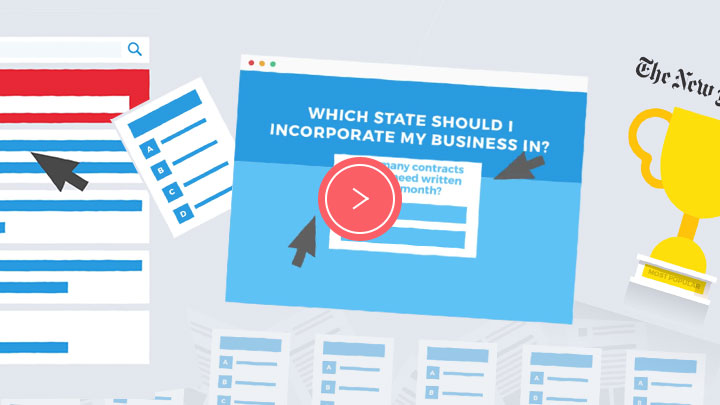
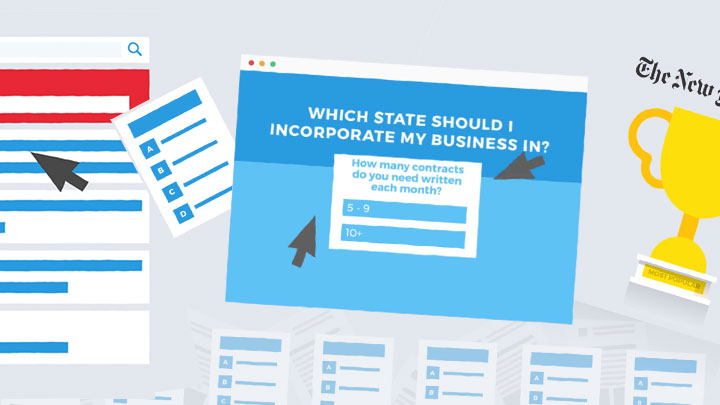
video img & it's responsive

Changed region(s): [[0.4278, 0.3852, 0.5806, 0.5926]]

diff --git a/siteNew/outgrow-home/css/allPage_minified.css b/siteNew/outgrow-home/css/allPage_minified.css
@@ -3505,6 +3505,7 @@ iframe[name=google_conversion_frame]{height:0!important;width:0!important;line-h
 		.sec-outgrowMagic img.thumb-calc {margin-right: 20px;}
 		.tab-inner-frame {border: none !important;}
 		.sec-outgrowMagic{padding: 0px 20px;}
+		img.img-playIcon {width: 13%;}
 
 	/* end: homepage responsive by arti */
 
@@ -3834,7 +3835,9 @@ iframe[name=google_conversion_frame]{height:0!important;width:0!important;line-h
 		.sec-outgrowMagic {padding: 20px;}
 		.tab-outer-frame {right: 0px !important;}
 		.sec-outgrowMagic img.thumb-calc {margin-right: 20px;}
+		img.img-playIcon {width: 13%;}
 	/* homepage res changes by Arti */
+
 }
 @media (min-width:910px) and (max-width:989px){
 	.section-7 .slider-sa,.section-8 .slider-sa,.section-9 .slider-sa{min-height:560px}
@@ -14955,7 +14958,7 @@ body ul.wpb_thumbnails-fluid li:after,body ul.wpb_thumbnails-fluid li:before{dis
     position: absolute;
     background: #fff;
     width: 500px;
-    height: 280px;
+    height: 300px;
     right: 135px;
     top: 192px;
     border-radius: 10px;
@@ -14998,7 +15001,7 @@ body ul.wpb_thumbnails-fluid li:after,body ul.wpb_thumbnails-fluid li:before{dis
 .float-table-inner {
     float: left;
     width: 100%;
-    line-height: 30px;
+    line-height: 36px;
 }
 .label-left {
     width: 47%;
@@ -15007,10 +15010,11 @@ body ul.wpb_thumbnails-fluid li:after,body ul.wpb_thumbnails-fluid li:before{dis
 	font-family: montserratlight;
 }
 .label-right {
-    font-family: montserratsemibold;
+    font-family: montserratregular;
     width: 47%;
     float: left;
     text-align: left;
+	font-size: 16px;
 }
 span.colon {
     width: 6%;
@@ -15210,6 +15214,16 @@ span.icon-webcam {
 .scroll-wrapper {
     white-space: nowrap;
     overflow-x: scroll;
+}
+
+img.video-img {
+    position: relative;
+    right: 0;
+}
+img.img-playIcon {
+    position: absolute;
+    top: 38%;
+    left: 44%;
 }
 
 /*end: new css by Arti */

diff --git a/siteNew/outgrow-home/index.html b/siteNew/outgrow-home/index.html
@@ -216,8 +216,12 @@
 						<img src="images/homepage-soccer1.jpg" />
 					</div>
 				</div>-->
-				<div class="embed-responsive embed-responsive-16by9">
+				<!--<div class="embed-responsive embed-responsive-16by9">
 					<iframe class="outgrow-video" src="https://www.youtube.com/embed/PmN_MY5kNrE?vq=hd720&amp;rel=0&amp;controls=0&amp;showinfo=0" frameborder="0" allowfullscreen></iframe>
+				</div>-->
+				<div class="video-img-wrapper">
+					<img class="video-img" src="images/video-img.jpg" />
+					<img class="img-playIcon" src="images/video-img-playIcon.png" />
 				</div>
 			</div>
 			<div class="col-xs-12 col-sm-7 section-1-right rs-hide">
@@ -238,9 +242,12 @@
 						</a>
 					</div>
 				</div>-->
-				<div class="embed-responsive embed-responsive-16by9">
-					<!--<iframe class="outgrow-video" src="https://www.youtube.com/embed/PmN_MY5kNrE?vq=hd720&amp;rel=0&amp;controls=0&amp;showinfo=0" frameborder="0" allowfullscreen></iframe>-->
-					<img src="images/video-img.jpg" />
+				<!--<div class="embed-responsive embed-responsive-16by9">
+					<iframe class="outgrow-video" src="https://www.youtube.com/embed/PmN_MY5kNrE?vq=hd720&amp;rel=0&amp;controls=0&amp;showinfo=0" frameborder="0" allowfullscreen></iframe>
+				</div>-->
+				<div class="video-img-wrapper">
+					<img class="video-img" src="images/video-img.jpg" />
+					<img class="img-playIcon" src="images/video-img-playIcon.png" />
 				</div>
 			</div>
 		</div>
@@ -591,7 +598,7 @@
 				</span>
 				<span class="mk-animate-element right-to-left">
 					<i class="material-icons">developer_board</i>
-					<span>Publish Within Minutes, with <b>No IT Headache</b> </span>
+					<span>Publish Within Minutes, with <b>No IT Headache</b> including <b>Charts and Graphs</b></span>
 				</span>
 
 			</div>
